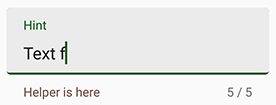
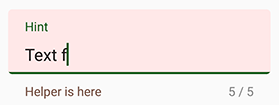
Custom Background
Customizable Background Color
Grayscale colors implement transparency
Improve the way of displaying bottomLine

diff --git a/textfieldboxes/src/main/java/studio/carbonylgroup/textfieldboxes/TextFieldBoxes.java b/textfieldboxes/src/main/java/studio/carbonylgroup/textfieldboxes/TextFieldBoxes.java
@@ -28,8 +28,7 @@ public class TextFieldBoxes extends FrameLayout {
     public final int DEFAULT_TEXT_COLOR = getContext().getResources().getColor(R.color.per54black);
     public final int DEFAULT_ERROR_COLOR = getContext().getResources().getColor(R.color.A400red);
     public final int DEFAULT_DISABLED_TEXT_COLOR = getContext().getResources().getColor(R.color.per42black);
-    public final int DEFAULT_DISABLED_BG_COLOR = getContext().getResources().getColor(R.color.per10black);
-    public final int DEFAULT_ENABLED_BG_COLOR = getContext().getResources().getColor(R.color.per06black);
+    public final int DEFAULT_BG_COLOR = getContext().getResources().getColor(R.color.per06black);
 
     /**
      * whether the text field is enabled. True by default.
@@ -88,14 +87,20 @@ public class TextFieldBoxes extends FrameLayout {
     protected int primaryColor;
 
     /**
+     * the color for panel at the back. DEFAULT_BG_COLOR by default.
+     */
+    protected int panelBackgroundColor;
+
+    /**
      * whether the EditText is having the focus. False by default.
      */
     protected boolean hasFocus;
 
-    public View card;
+    public View panel;
     public TextView label;
     public EditText editText;
     public ViewGroup editTextLayout;
+    public FrameLayout bottomLine;
     public AppCompatTextView helper;
     public AppCompatTextView counter;
     protected InputMethodManager inputMethodManager;
@@ -135,7 +140,7 @@ public class TextFieldBoxes extends FrameLayout {
         super.onFinishInflate();
         addView(LayoutInflater.from(getContext()).inflate(R.layout.text_field_boxes_layout, this, false));
 
-        card = findViewById(R.id.text_field_boxes_card);
+        panel = findViewById(R.id.text_field_boxes_panel);
         editTextLayout = findViewById(R.id.text_field_boxes_editTextLayout);
         editText = findViewById(R.id.text_field_boxes_editText);
         editText.setBackgroundColor(Color.TRANSPARENT);
@@ -147,8 +152,9 @@ public class TextFieldBoxes extends FrameLayout {
         labelTopMargin = RelativeLayout.LayoutParams.class.cast(label.getLayoutParams()).topMargin;
         helper = findViewById(R.id.text_field_boxes_helper);
         counter = findViewById(R.id.text_field_boxes_counter);
+        bottomLine = findViewById(R.id.bg_bottom_line);
 
-        card.setOnClickListener(new OnClickListener() {
+        panel.setOnClickListener(new OnClickListener() {
             @Override
             public void onClick(View v) {
                 if (!isActivated()) activate(true);
@@ -193,6 +199,7 @@ public class TextFieldBoxes extends FrameLayout {
         setHelperTextColor(helperTextColor);
         setErrorColor(errorColor);
         setPrimaryColor(primaryColor);
+        setPanelBackgroundColor(panelBackgroundColor);
         setHasFocus(hasFocus);
         updateCounterText();
     }
@@ -211,6 +218,7 @@ public class TextFieldBoxes extends FrameLayout {
             helperTextColor = styledAttrs.getInt(R.styleable.TextFieldBoxes_helperTextColor, DEFAULT_TEXT_COLOR);
             errorColor = styledAttrs.getInt(R.styleable.TextFieldBoxes_errorColor, DEFAULT_ERROR_COLOR);
             primaryColor = styledAttrs.getColor(R.styleable.TextFieldBoxes_primaryColor, Utils.fetchPrimaryColor(getContext()));
+            panelBackgroundColor = styledAttrs.getColor(R.styleable.TextFieldBoxes_panelBackgroundColor, DEFAULT_BG_COLOR);
             hasFocus = styledAttrs.getBoolean(R.styleable.TextFieldBoxes_hasFocus, false);
             enabled = styledAttrs.getBoolean(R.styleable.TextFieldBoxes_enabled, true);
             styledAttrs.recycle();
@@ -291,7 +299,7 @@ public class TextFieldBoxes extends FrameLayout {
 
         label.setTextColor(colorRes);
         Utils.setCursorDrawableColor(editText, colorRes);
-        ((GradientDrawable) ((LayerDrawable) card.getBackground()).findDrawableByLayerId(R.id.bg_bottom_line)).setColor(colorRes);
+        bottomLine.setBackgroundColor(colorRes);
     }
 
     /**
@@ -364,9 +372,9 @@ public class TextFieldBoxes extends FrameLayout {
             editText.setFocusable(true);
             helper.setVisibility(View.VISIBLE);
             counter.setVisibility(View.VISIBLE);
-            card.setEnabled(true);
+            bottomLine.setVisibility(View.VISIBLE);
+            panel.setEnabled(true);
             setHighlightColor(DEFAULT_TEXT_COLOR);
-            ((GradientDrawable) ((LayerDrawable) card.getBackground()).findDrawableByLayerId(R.id.bg_cover)).setColor(DEFAULT_ENABLED_BG_COLOR);
             updateCounterText();
 
         } else {
@@ -378,9 +386,8 @@ public class TextFieldBoxes extends FrameLayout {
             label.setTextColor(DEFAULT_DISABLED_TEXT_COLOR);
             helper.setVisibility(View.INVISIBLE);
             counter.setVisibility(View.INVISIBLE);
-            card.setEnabled(false);
-            ((GradientDrawable) ((LayerDrawable) card.getBackground()).findDrawableByLayerId(R.id.bg_cover)).setColor(DEFAULT_DISABLED_BG_COLOR);
-            ((GradientDrawable) ((LayerDrawable) card.getBackground()).findDrawableByLayerId(R.id.bg_bottom_line)).setColor(DEFAULT_DISABLED_BG_COLOR);
+            bottomLine.setVisibility(View.INVISIBLE);
+            panel.setEnabled(false);
         }
     }
 
@@ -512,6 +519,12 @@ public class TextFieldBoxes extends FrameLayout {
         if (hasFocus) setHighlightColor(primaryColor);
     }
 
+    public void setPanelBackgroundColor(int _colorRes) {
+
+        this.panelBackgroundColor = _colorRes;
+        ((GradientDrawable) ((LayerDrawable) panel.getBackground()).findDrawableByLayerId(R.id.bg_cover)).setColor(panelBackgroundColor);
+    }
+
     /**
      * set if the EditText is having focus
      *
@@ -587,6 +600,10 @@ public class TextFieldBoxes extends FrameLayout {
 
     public int getPrimaryColor() {
         return this.primaryColor;
+    }
+
+    public int getPanelBackgroundColor() {
+        return this.panelBackgroundColor;
     }
 
     public boolean getHasFocus() {

diff --git a/textfieldboxes/src/main/java/studio/carbonylgroup/textfieldboxes/Utils.java b/textfieldboxes/src/main/java/studio/carbonylgroup/textfieldboxes/Utils.java
@@ -1,7 +1,9 @@
 package studio.carbonylgroup.textfieldboxes;
 
 import android.content.Context;
+import android.content.res.Resources;
 import android.content.res.TypedArray;
+import android.graphics.Color;
 import android.graphics.PorterDuff;
 import android.graphics.drawable.Drawable;
 import android.util.TypedValue;
@@ -31,25 +33,47 @@ public class Utils {
     /**
      * set EditText cursor color
      */
-    public static void setCursorDrawableColor(EditText editText, int color) {
+    public static void setCursorDrawableColor(EditText _editText, int _colorRes) {
 
         try {
             Field fCursorDrawableRes = TextView.class.getDeclaredField("mCursorDrawableRes");
             fCursorDrawableRes.setAccessible(true);
-            int mCursorDrawableRes = fCursorDrawableRes.getInt(editText);
+            int mCursorDrawableRes = fCursorDrawableRes.getInt(_editText);
             Field fEditor = TextView.class.getDeclaredField("mEditor");
             fEditor.setAccessible(true);
-            Object editor = fEditor.get(editText);
+            Object editor = fEditor.get(_editText);
             Class<?> clazz = editor.getClass();
             Field fCursorDrawable = clazz.getDeclaredField("mCursorDrawable");
             fCursorDrawable.setAccessible(true);
             Drawable[] drawables = new Drawable[2];
-            drawables[0] = editText.getContext().getResources().getDrawable(mCursorDrawableRes);
-            drawables[1] = editText.getContext().getResources().getDrawable(mCursorDrawableRes);
-            drawables[0].setColorFilter(color, PorterDuff.Mode.SRC_IN);
-            drawables[1].setColorFilter(color, PorterDuff.Mode.SRC_IN);
+            drawables[0] = _editText.getContext().getResources().getDrawable(mCursorDrawableRes);
+            drawables[1] = _editText.getContext().getResources().getDrawable(mCursorDrawableRes);
+            drawables[0].setColorFilter(_colorRes, PorterDuff.Mode.SRC_IN);
+            drawables[1].setColorFilter(_colorRes, PorterDuff.Mode.SRC_IN);
             fCursorDrawable.set(editor, drawables);
         } catch (Throwable ignored) {
         }
+    }
+
+    /**
+     * convert dp value into pixels
+     */
+    public static int dp2px(Context context, float dp) {
+        Resources r = context.getResources();
+        float px = TypedValue.applyDimension(TypedValue.COMPLEX_UNIT_DIP, dp, r.getDisplayMetrics());
+        return Math.round(px);
+    }
+
+    /**
+     * adjust the alpha value of the color
+     *
+     * @return the color after adjustment
+     */
+    public static int adjustAlpha(int color, float _alphaFactor) {
+        int alpha = Math.round(Color.alpha(color) * _alphaFactor);
+        int red = Color.red(color);
+        int green = Color.green(color);
+        int blue = Color.blue(color);
+        return Color.argb(alpha, red, green, blue);
     }
 }

diff --git a/textfieldboxes/src/main/java/studio/carbonylgroup/textfieldboxes/PanelView.java b/textfieldboxes/src/main/java/studio/carbonylgroup/textfieldboxes/PanelView.java
@@ -1,0 +1,45 @@
+package studio.carbonylgroup.textfieldboxes;
+
+import android.content.Context;
+import android.graphics.Canvas;
+import android.graphics.Path;
+import android.graphics.RectF;
+import android.util.AttributeSet;
+import android.widget.RelativeLayout;
+
+/**
+ * Text Field Boxes
+ * Created by CarbonylGroup on 2017/08/25
+ */
+public class PanelView extends RelativeLayout {
+
+    Context context;
+
+    public PanelView(Context context) {
+
+        super(context);
+        this.context = context;
+    }
+
+    public PanelView(Context context, AttributeSet attrs) {
+
+        super(context, attrs);
+        this.context = context;
+    }
+
+    public PanelView(Context context, AttributeSet attrs, int defStyleAttr) {
+
+        super(context, attrs, defStyleAttr);
+        this.context = context;
+    }
+
+    @Override
+    protected void onDraw(Canvas canvas) {
+
+        Path clipPath = new Path();
+        Float cornerRadius = context.getResources().getDimension(R.dimen.text_field_boxes_corner_radius);
+        clipPath.addRoundRect(new RectF(canvas.getClipBounds()), cornerRadius, cornerRadius, Path.Direction.CW);
+        canvas.clipPath(clipPath);
+        super.onDraw(canvas);
+    }
+}
